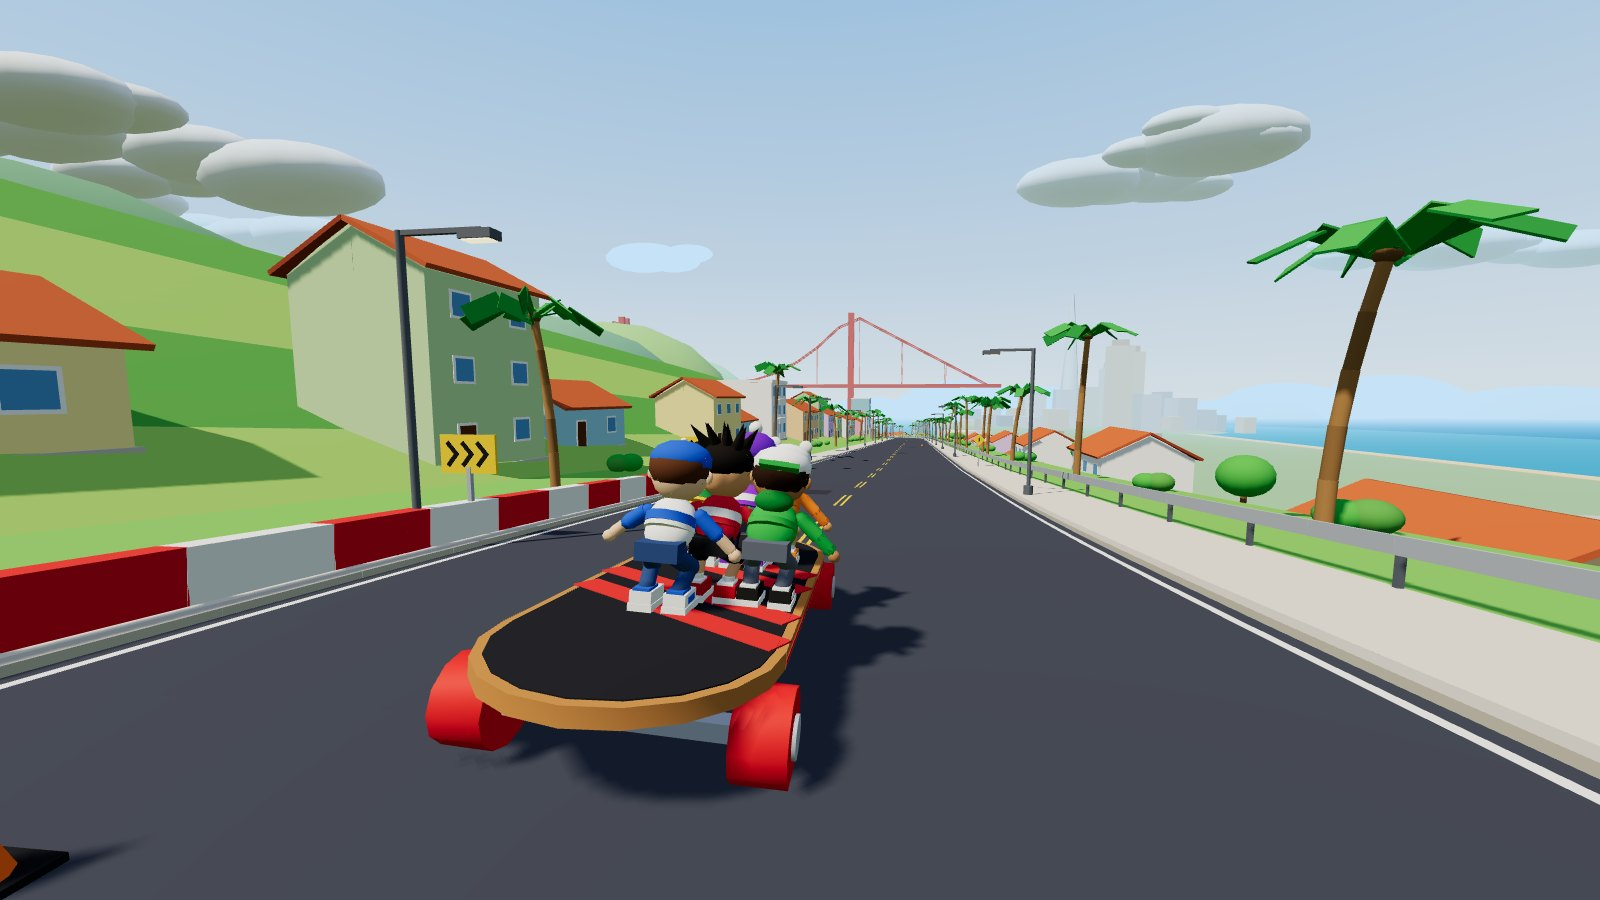
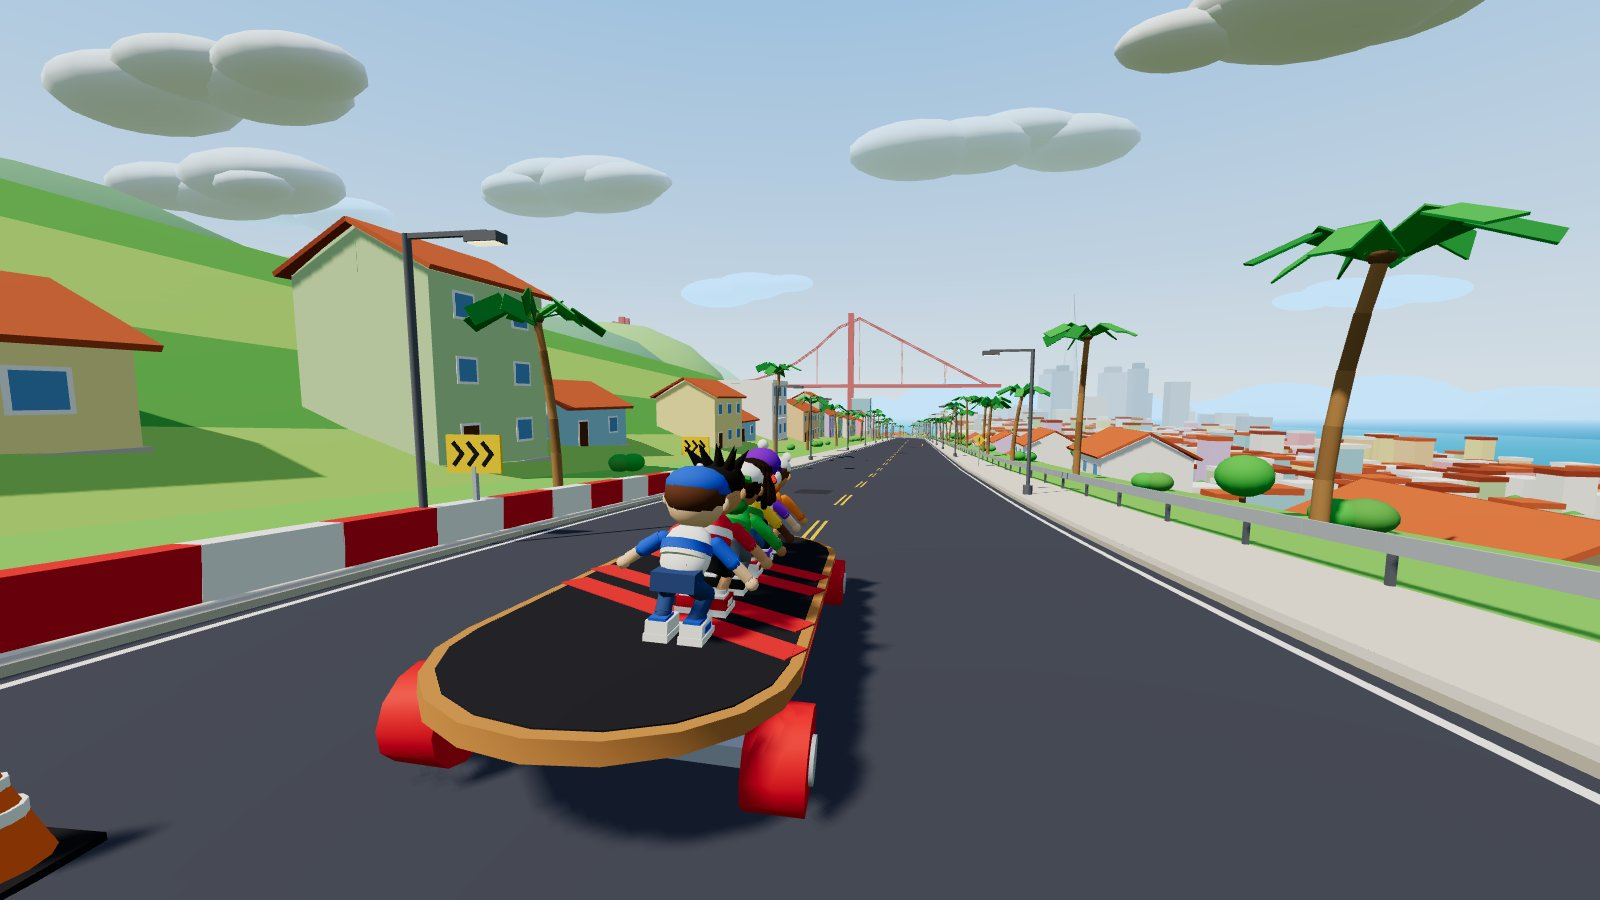
Bigger board next to the riders; tuning asset migration
- Board 6 x 2.4 m -> 6.75 x 2.7 m (physics and visuals), riders drawn at
  0.88 scale (visual only): the deck reads ~28 % bigger relative to the crew
  while gameplay changes stay small
- Road planner keeps clearance proportional to extra board width and the
  partial-barrier weave scales with it (cooperative crews: 0 crashes on the
  test seeds; a 25 % bigger board and faster riders were tried and rejected)
- TuningMigration: Unity tuning assets kept stale defaults forever; fields
  still holding an earlier default (from git history M1..M4.3) upgrade on
  load, hand-tuned values are kept; the editor saves the upgraded asset
- Tests: migration, proportional weight test, pin test updated (100/100)

Claude-Session: https://claude.ai/code/session_01WmU9vfZcmR15CSy5fV7A54

diff --git a/Assets/Scripts/Tests/Simulation/ArtAcceptanceTests.cs b/Assets/Scripts/Tests/Simulation/ArtAcceptanceTests.cs
@@ -149,6 +149,9 @@ namespace Game.Tests
                 // M4 follow-up ("more playable"): friendlier near misses and combo idle time
                 ["nearMissDistance"] = (1.2f, 1.5f),
                 ["comboIdleTime"] = (4f, 5f),
+                // M4.5 ("the board should be bigger next to the riders")
+                ["boardLength"] = (6f, 6.75f),
+                ["boardWidth"] = (2.4f, 2.7f),
             };
             var d = new BoardTuningData();
             float Get(string name) => (float)typeof(BoardTuningData).GetField(name).GetValue(d);
@@ -175,10 +178,30 @@ namespace Game.Tests
             Assert.AreEqual(M3UnchangedWeightedSum, sum, 1e-3, "a tuning value changed that the user did not ask for");
         }
 
+        /// <summary>Old Unity tuning assets keep stale defaults: the migration upgrades exactly the changed fields, keeps hand-tuned ones.</summary>
+        [Test]
+        public void TuningMigration_UpgradesStaleDefaults_KeepsHandTunedValues()
+        {
+            var old = new BoardTuningData { boardLength = 6f, boardWidth = 2.4f, startSpeed = 8f, softCapSpeed = 33f, comboIdleTime = 4f };
+            int n = TuningMigration.Upgrade(old);
+            var current = new BoardTuningData();
+            Assert.AreEqual(4, n);
+            Assert.AreEqual(current.boardLength, old.boardLength);
+            Assert.AreEqual(current.boardWidth, old.boardWidth);
+            Assert.AreEqual(current.startSpeed, old.startSpeed);
+            Assert.AreEqual(current.comboIdleTime, old.comboIdleTime);
+            Assert.AreEqual(33f, old.softCapSpeed, "a hand-tuned value is kept");
+            Assert.AreEqual(0, TuningMigration.Upgrade(old), "idempotent");
+            Assert.AreEqual(0, TuningMigration.Upgrade(new BoardTuningData()), "current defaults need nothing");
+            foreach ((string field, float[] olds) in TuningMigration.History)
+                Assert.IsNotNull(typeof(BoardTuningData).GetField(field), field);
+        }
+
         // From the M3 defaults (tag m3-done, commit 0fededf) excluding the fields listed above;
         // `git diff 0fededf -- BoardTuningData.cs` shows only those fields changed.
-        const int M3UnchangedFieldCount = 70;
-        const double M3UnchangedWeightedSum = 57933.40000034869;
+        // (M4.5: boardLength / boardWidth moved to the requested changes: 68 fields remain, same values as at M3)
+        const int M3UnchangedFieldCount = 68;
+        const double M3UnchangedWeightedSum = 42179.68000065535;
 
         [Test]
         public void M4_RiderCountKeys_OneLeavesExactlyOneRider()

diff --git a/Assets/Scripts/Runtime/Simulation/Tuning/TuningMigration.cs b/Assets/Scripts/Runtime/Simulation/Tuning/TuningMigration.cs
@@ -1,0 +1,58 @@
+using System;
+using System.Reflection;
+
+namespace Game.Simulation
+{
+    /// <summary>
+    /// Brings a saved tuning (Unity's Assets/Settings/BoardTuning.asset, created on first import and kept by the
+    /// project) up to date: Unity keeps the old serialized values when a default changes in code, so without this a
+    /// project opened at M1-M3 would never see later default changes (e.g. the bigger board). A field is upgraded
+    /// only while it still holds one of its earlier defaults, so values tuned by hand are left alone.
+    /// Every past default comes from git history of BoardTuningData.cs (M1 74f9cf6 .. M4.3 17934b1).
+    /// </summary>
+    public static class TuningMigration
+    {
+        /// <summary>Field, and every default it had before the current one.</summary>
+        public static readonly (string field, float[] oldDefaults)[] History =
+        {
+            ("boardLength", new[] { 6f }),
+            ("boardWidth", new[] { 2.4f }),
+            ("steeringSmoothingTime", new[] { 0.4f }),
+            ("yawRateBaseDeg", new[] { 20f }),
+            ("yawResponseTime", new[] { 0.25f }),
+            ("maxRollDeg", new[] { 18f }),
+            ("rollResponseTime", new[] { 0.2f }),
+            ("startSpeed", new[] { 8f }),
+            ("speedRampPerSecond", new[] { 0.25f }),
+            ("softCapSpeed", new[] { 35f }),
+            ("frontAcceleration", new[] { 4f }),
+            ("playerMoveSpeed", new[] { 3.6f }),
+            ("respawnSpeedFraction", new[] { 0.6f }),
+            ("comboIdleTime", new[] { 4f }),
+            ("nearMissDistance", new[] { 1.2f }),
+        };
+
+        static readonly BoardTuningData Defaults = new BoardTuningData();
+
+        /// <summary>Upgrades stale defaults in place; returns how many fields changed (0 when already current).</summary>
+        public static int Upgrade(BoardTuningData d)
+        {
+            if (d == null) return 0;
+            int changed = 0;
+            foreach ((string field, float[] oldDefaults) in History)
+            {
+                FieldInfo f = typeof(BoardTuningData).GetField(field);
+                if (f == null) continue;
+                float value = (float)f.GetValue(d);
+                foreach (float old in oldDefaults)
+                {
+                    if (Math.Abs(value - old) > 1e-5f) continue;
+                    f.SetValue(d, f.GetValue(Defaults));
+                    changed++;
+                    break;
+                }
+            }
+            return changed;
+        }
+    }
+}

diff --git a/Assets/Scripts/Runtime/Simulation/Road/RoadPlanner.cs b/Assets/Scripts/Runtime/Simulation/Road/RoadPlanner.cs
@@ -15,6 +15,7 @@ namespace Game.Simulation
         /// <summary>Allowed lateral change of the board centre per metre travelled (~3.4 deg path angle).</summary>
         public const float LateralSlope = 0.06f;
         public const float Margin = 0.75f;
+        public const float ExtraMarginPerWidth = 1.5f;
 
         readonly float[] _free = new float[MaxSamples * MaxIntervals * 2];
         readonly int[] _freeCount = new int[MaxSamples];
@@ -30,7 +31,9 @@ namespace Game.Simulation
         {
             int n = chunk.SampleCount;
             if (n > MaxSamples) throw new InvalidOperationException("chunk too long for the planner");
-            float boardHalfW = t.HalfWidth + Margin;
+            // a board wider than the original 2.4 m one gets proportionally more clearance: the crew tracks the line with
+            // the same lateral error, which leaves less room between obstacles on a bigger deck
+            float boardHalfW = t.HalfWidth + Margin + Math.Max(0f, t.HalfWidth - 1.2f) * ExtraMarginPerWidth;
             float boardHalfL = t.HalfLength + 1f;
 
             // 1) free centre intervals per sample

diff --git a/Assets/Scripts/Editor/ProjectSetup.cs b/Assets/Scripts/Editor/ProjectSetup.cs
@@ -24,6 +24,7 @@ namespace Game.EditorTools
                 if (EditorApplication.isPlayingOrWillChangePlaymode) return;
                 UrpSetup.EnsureUrpActive();
                 if (!File.Exists(ScenePath)) CreateTestScene(openAfterwards: string.IsNullOrEmpty(SceneManager.GetActiveScene().path));
+                SaveMigratedTuning();
             };
         }
 
@@ -32,6 +33,16 @@ namespace Game.EditorTools
         {
             UrpSetup.EnsureUrpActive();
             if (!File.Exists(ScenePath)) CreateTestScene(openAfterwards: false);
+        }
+
+        /// <summary>BoardTuning upgrades stale defaults when it loads; write that back so the asset shows the real values.</summary>
+        static void SaveMigratedTuning()
+        {
+            var tuning = AssetDatabase.LoadAssetAtPath<BoardTuning>(TuningPath);
+            if (tuning == null || tuning.MigratedFields == 0) return;
+            EditorUtility.SetDirty(tuning);
+            AssetDatabase.SaveAssets();
+            tuning.MigratedFields = 0;
         }
 
         [MenuItem("Downhill/Rebuild M1 Test Scene")]

diff --git a/Assets/Scripts/Runtime/Simulation/Road/RoadGenerator.cs b/Assets/Scripts/Runtime/Simulation/Road/RoadGenerator.cs
@@ -507,7 +507,8 @@ namespace Game.Simulation
                     for (float a = 35f; a < L - 30f; a += spacing)
                     {
                         float hw = HalfWidthAt(chunk, a);
-                        float inner = SimMath.Lerp(1.0f, 0.3f, d);
+                        // designed around the original 2.4 m board: a wider board gets the same weave (not a tighter one)
+                        float inner = SimMath.Lerp(1.0f, 0.3f, d) + Math.Max(0f, _tuning.HalfWidth - 1.2f);
                         float lo = side > 0f ? inner : -hw - 0.3f;
                         float hi = side > 0f ? hw + 0.3f : -inner;
                         Place(chunk, ObstacleKind.ConcreteBarrier, a, (lo + hi) * 0.5f, 0f, new Vector2((hi - lo) * 0.5f, 0.35f));

diff --git a/Assets/Scripts/Runtime/Tuning/BoardTuning.cs b/Assets/Scripts/Runtime/Tuning/BoardTuning.cs
@@ -21,6 +21,16 @@ namespace Game
 
         public void ResetToDefaults() => data = new BoardTuningData();
 
+        /// <summary>Fields upgraded from an older default on the last load (the editor saves the asset when &gt; 0).</summary>
+        [System.NonSerialized] public int MigratedFields;
+
+        void OnEnable()
+        {
+            if (data == null) data = new BoardTuningData();
+            MigratedFields = TuningMigration.Upgrade(data);
+            if (MigratedFields > 0) Debug.Log($"Downhill: BoardTuning upgraded {MigratedFields} field(s) to the current defaults (hand-tuned values kept).", this);
+        }
+
         void OnValidate()
         {
             if (data == null) data = new BoardTuningData();

diff --git a/Assets/Scripts/Tests/Simulation/BoardFlowTests.cs b/Assets/Scripts/Tests/Simulation/BoardFlowTests.cs
@@ -160,8 +160,9 @@ namespace Game.Tests
         {
             BoardTuningData t = new BoardTuningData();
             BoardSimulation sim = BoardScenario.Create(2, t);
-            sim.Players[0].PlaceAt(new Vector2(-1f, 0f));
-            sim.Players[1].PlaceAt(new Vector2(1f, 0f));
+            float x = t.HalfWidth * 0.83f; // same spots relative to the deck at any board size
+            sim.Players[0].PlaceAt(new Vector2(-x, 0f));
+            sim.Players[1].PlaceAt(new Vector2(x, 0f));
             sim.Players[1].Height = 0.5f; // right player mid-jump
             float lateral = sim.ComputeWeight().Lateral;
             Assert.That(lateral, Is.LessThan(-0.4f), "board should lean to the grounded player");

diff --git a/Assets/Scripts/Runtime/Simulation/Tuning/BoardTuningData.cs b/Assets/Scripts/Runtime/Simulation/Tuning/BoardTuningData.cs
@@ -10,8 +10,8 @@ namespace Game.Simulation
     public class BoardTuningData
     {
         // ---------------- Board geometry ----------------
-        [TuningRange("Board", 3f, 10f)] public float boardLength = 6f;
-        [TuningRange("Board", 1.2f, 4f)] public float boardWidth = 2.4f;
+        [TuningRange("Board", 3f, 10f)] public float boardLength = 6.75f;
+        [TuningRange("Board", 1.2f, 4f)] public float boardWidth = 2.7f;
         [TuningRange("Board", 0.15f, 0.6f)] public float wheelRadius = 0.35f;
         [TuningRange("Board", 0.4f, 1.5f)] public float deckHeight = 0.85f;
 

diff --git a/Tools/ArtPreview/GameplayScenes.cs b/Tools/ArtPreview/GameplayScenes.cs
@@ -159,7 +159,7 @@ namespace ArtPreview
                     SpeedNorm = SimMath.Clamp01(b.Speed / Math.Max(t.softCapSpeed, 1f)), Wobble = b.Wobble, BoardRoll = b.Roll,
                     YawRate = b.YawRate, Time = i * 0.37f, Slot = i,
                 });
-                s.Set("P" + (i + 1)).Add(ArtLibrary.Character(i), world, boardRot, 1f, RiderPose.AsLookup(pose), null);
+                s.Set("P" + (i + 1)).Add(ArtLibrary.Character(i), world, boardRot, ArtLibrary.RiderScale, RiderPose.AsLookup(pose), null);
             }
 
             // chase camera as CameraController frames it

diff --git a/Assets/Scripts/Runtime/Art/ArtLibrary.cs b/Assets/Scripts/Runtime/Art/ArtLibrary.cs
@@ -267,6 +267,9 @@ namespace Game.Art
         }
 
         /// <summary>Torso pivot (hips) and head pivot (neck) of the rider rig, in "Pose" space.</summary>
+        /// <summary>Riders are drawn a little smaller than modelled so the giant board reads giant next to them (visual only).</summary>
+        public const float RiderScale = 0.88f;
+
         public static readonly Vector3 TorsoPivot = V(0f, 0.58f, -0.08f), HeadPivot = V(0f, 1.1f, 0f);
 
         /// <summary>

diff --git a/Assets/Scripts/Runtime/Players/PlayerView.cs b/Assets/Scripts/Runtime/Players/PlayerView.cs
@@ -45,6 +45,7 @@ namespace Game
 
             // M4: the stylised rider from Game.Art (rig groups Pose > Torso > Head / ArmL / ArmR)
             var rig = ArtBuilder.Build(ArtLibrary.Character(slot), transform);
+            transform.localScale = Vector3.one * ArtLibrary.RiderScale;
             _pose = rig["Pose"];
             _torso = rig["Torso"];
             _head = rig["Head"];
